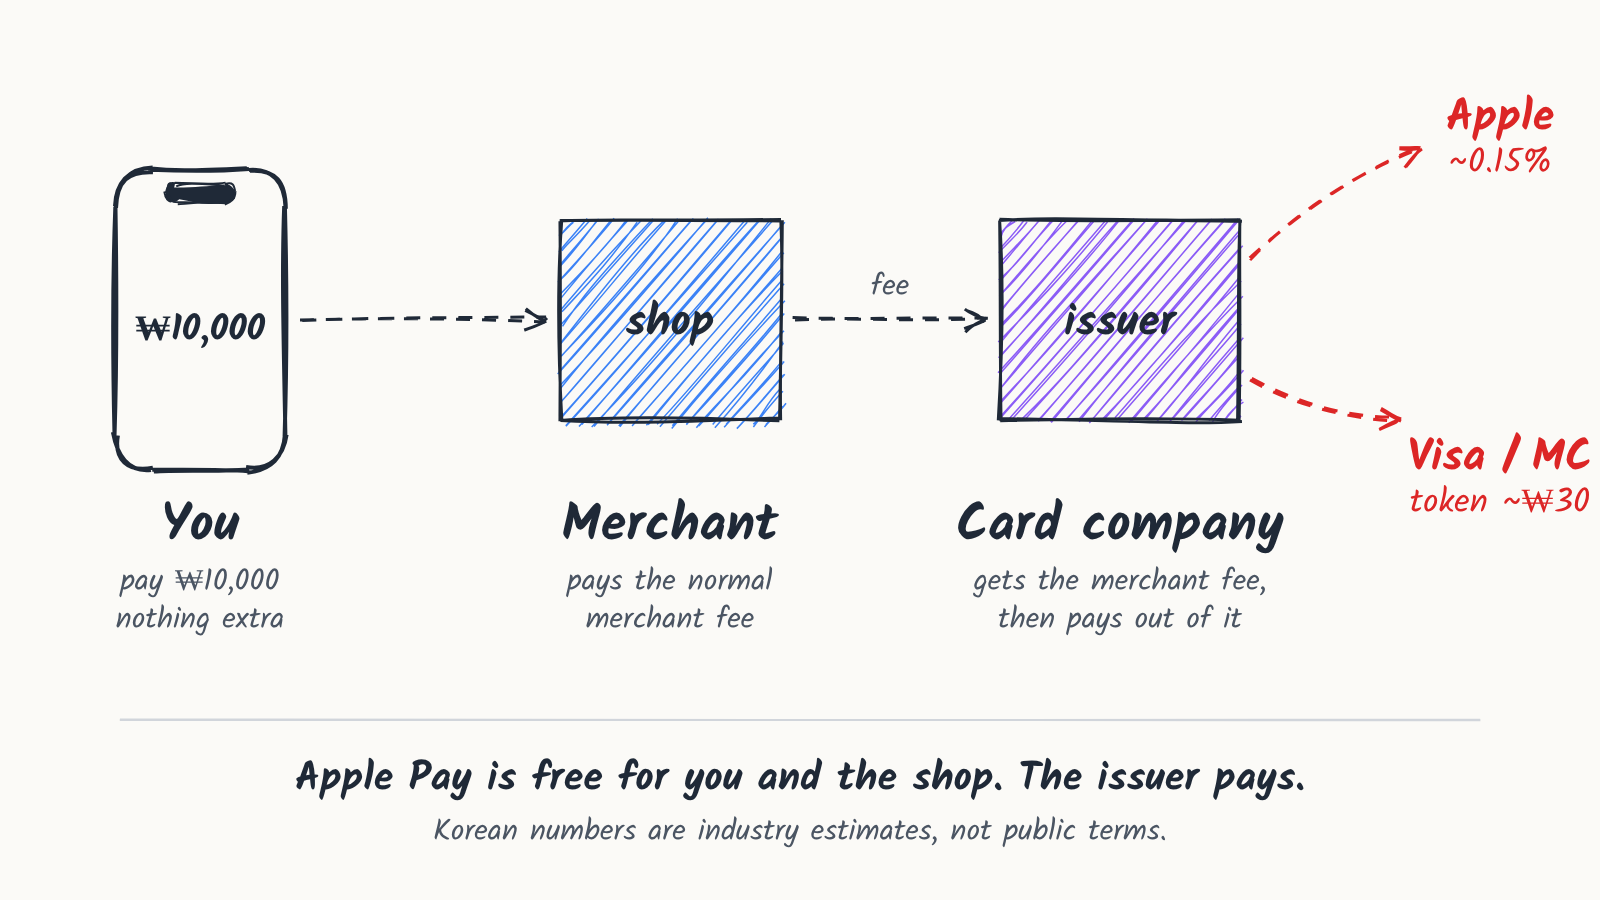
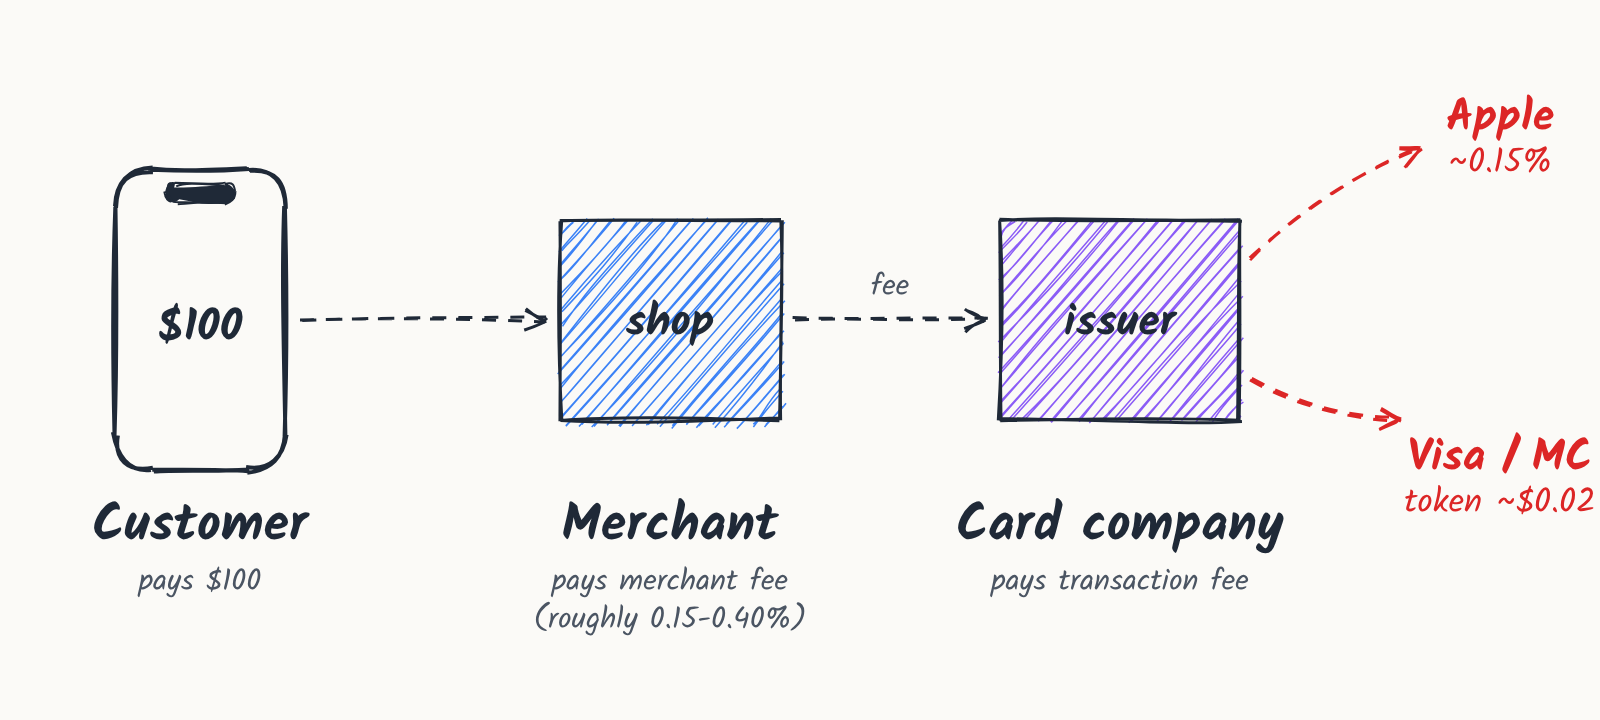
Update Kakao Bank post sketch

diff --git a/_posts/2026-11-16-kakao-bank-joins-apple-pay.md b/_posts/2026-11-16-kakao-bank-joins-apple-pay.md
@@ -28,7 +28,7 @@ Here is a $100 payment at a small shop in Korea:
 For shops with sales up to 300 million won a year, the government caps the fee at 0.40% for credit cards and 0.15% for debit cards. Kakao Bank's Apple fee is not public. In the US, Apple takes half a cent per debit payment. Other processing costs are left out.
 
 <figure class="post-figure">
-  <img src="{{ '/assets/posts/kakao-bank-joins-apple-pay/who-pays.png' | relative_url }}" alt="Sketch: you pay 10,000 won, the shop pays the normal merchant fee to the card company, and the card company pays Apple about 0.15% and Visa or Mastercard about 30 won for the token">
+  <img src="{{ '/assets/posts/kakao-bank-joins-apple-pay/who-pays.png' | relative_url }}" alt="Sketch: the customer pays $100, the merchant pays a fee of roughly 0.15 to 0.40% to the card company, and the card company pays Apple about 0.15% and Visa or Mastercard about $0.02 for the token">
 </figure>
 
 ## Sources
